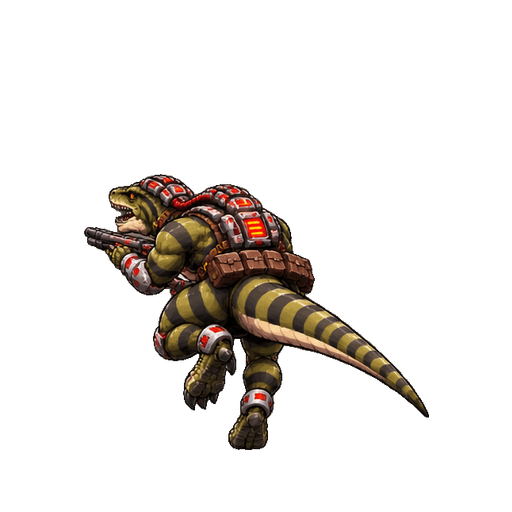
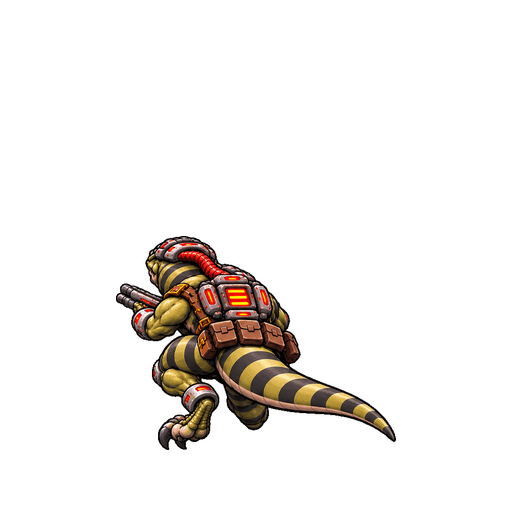
39T3: correct rear-diagonal leg pairs and preserve explicit incomplete animation checklist

Changed region(s): [[0.1562, 0.3438, 0.8438, 0.9062]]

diff --git a/app/studio/character-lab/page.tsx b/app/studio/character-lab/page.tsx
@@ -18,7 +18,7 @@ export default function CombatLab(){
  return <main style={{minHeight:"100vh",background:"#08101b",color:"#f5fbff",fontFamily:"Arial",padding:"max(25px,env(safe-area-inset-top)) 20px"}}>
   <div style={{maxWidth:800,margin:"auto"}}>
    <a href="/studio" style={{color:"#89e9f2"}}>← BACK TO STUDIO</a>
-   <p style={{color:"#ff8d9e",letterSpacing:2,fontSize:12}}>GOD MODE / BUILD 39T2 PLAYTEST</p>
+   <p style={{color:"#ff8d9e",letterSpacing:2,fontSize:12}}>GOD MODE / BUILD 39T3 PLAYTEST</p>
    <h1>COMBAT LAB</h1>
    <a href="/raptor-animation-review.html" style={{color:"#89e9f2"}}>Review all run and slide frames</a>
    <p>Both fighters use the newer XYZ combat engine. This is a test build, not a production character unlock.</p>

diff --git a/docs/raptor-39t-status.md b/docs/raptor-39t-status.md
@@ -1,0 +1,27 @@
+# Raptor 39T3 integration checkpoint
+
+Status: playable art preview, NOT acceptance-complete.
+
+Base: b513dac8dea33219132c81ae464c8c166188c491 (studio/39r4-39s-cover).
+Recoverable checkpoint: checkpoint/39t-before-cartoon-run-slide.
+Target: existing Raptor character lab only.
+
+Each of right, front-right, front, front-left, left, back-left, back, back-right has four sprint images and three slide images. Total 32 sprint + 24 slide unique images. Run reuses sprint images; idle reuses slide recovery. 96 runtime paths. Every image is 512x512 transparent PNG with per-frame anchor and SHA256.
+
+39T3 replaces eight rear-diagonal sprint images with back-facing equipment, occluded optic, and opposing extended-leg pairs. No game physics or input changes.
+
+Validation completed:
+- Eight direction mappings and four-phase selection.
+- Slide entry/hold/recovery, recovery-to-run, moving fire, stop, strafe selection.
+- 39T2 Railway build successful and browser loaded all 96 asset paths.
+- Normal Raptor menu boot, keyboard/touch movement, moving-fire input exercised.
+
+Outstanding acceptance defects:
+- Front-diagonal run poses still favor the same leading thigh. A targeted four-frame correction was rejected because it repeated the error.
+- Left/right lean and inter-direction body scale need full playback acceptance.
+- Rear-diagonal replacement pairs have potential size/anchor drift; require playback review.
+- Slide rear heels/contact points and recovery transitions need full gameplay validation.
+- Slow/strafe and idle currently borrow frames, not dedicated animation.
+- Physical controller inputs, all eight slide/fire/cancellation scenarios, and sustained captured gameplay matrix are NOT verified.
+
+Do not mark this checkpoint as the requested completed animation release. Do not begin cover-system changes based on this checkpoint.
